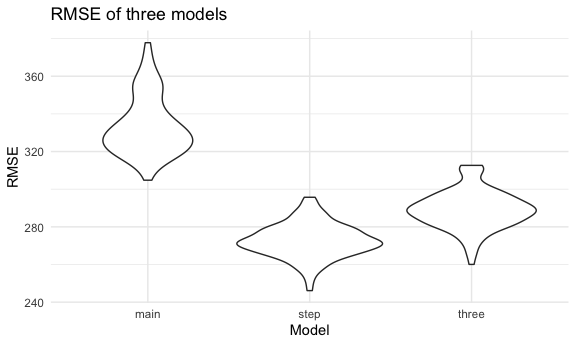
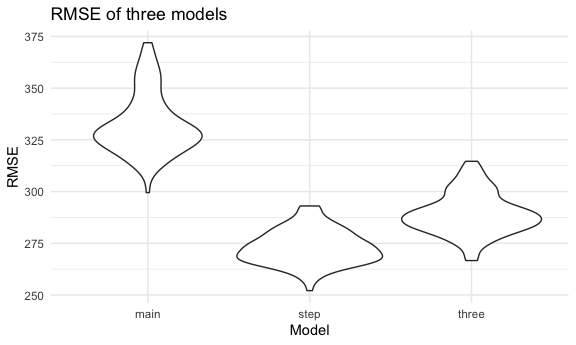
added the drop_na

diff --git a/hw6_dg3187.md b/hw6_dg3187.md
@@ -100,8 +100,9 @@ models_results_df %>%
 
 ``` r
 bwt_df =
-  read_csv("./data/birthweight.csv") %>%
+  read_csv("./data/birthweight.csv") %>% 
   janitor::clean_names() %>% 
+  drop_na() %>% 
   mutate(
     babysex = as.factor(babysex),
     frace = as.factor(frace),
@@ -289,13 +290,6 @@ cv_df =
     rmse_three = map2_dbl(three_mod, test, ~rmse(model = .x, data = .y)),
     rmse_step = map2_dbl(step_mod, test, ~rmse(model = .x, data = .y)))
 ```
-
-    ## Warning: Problem with `mutate()` input `rmse_step`.
-    ## ℹ prediction from a rank-deficient fit may be misleading
-    ## ℹ Input `rmse_step` is `map2_dbl(step_mod, test, ~rmse(model = .x, data = .y))`.
-
-    ## Warning in predict.lm(model, data): prediction from a rank-deficient fit may be
-    ## misleading
 
 ``` r
 cv_df %>%
